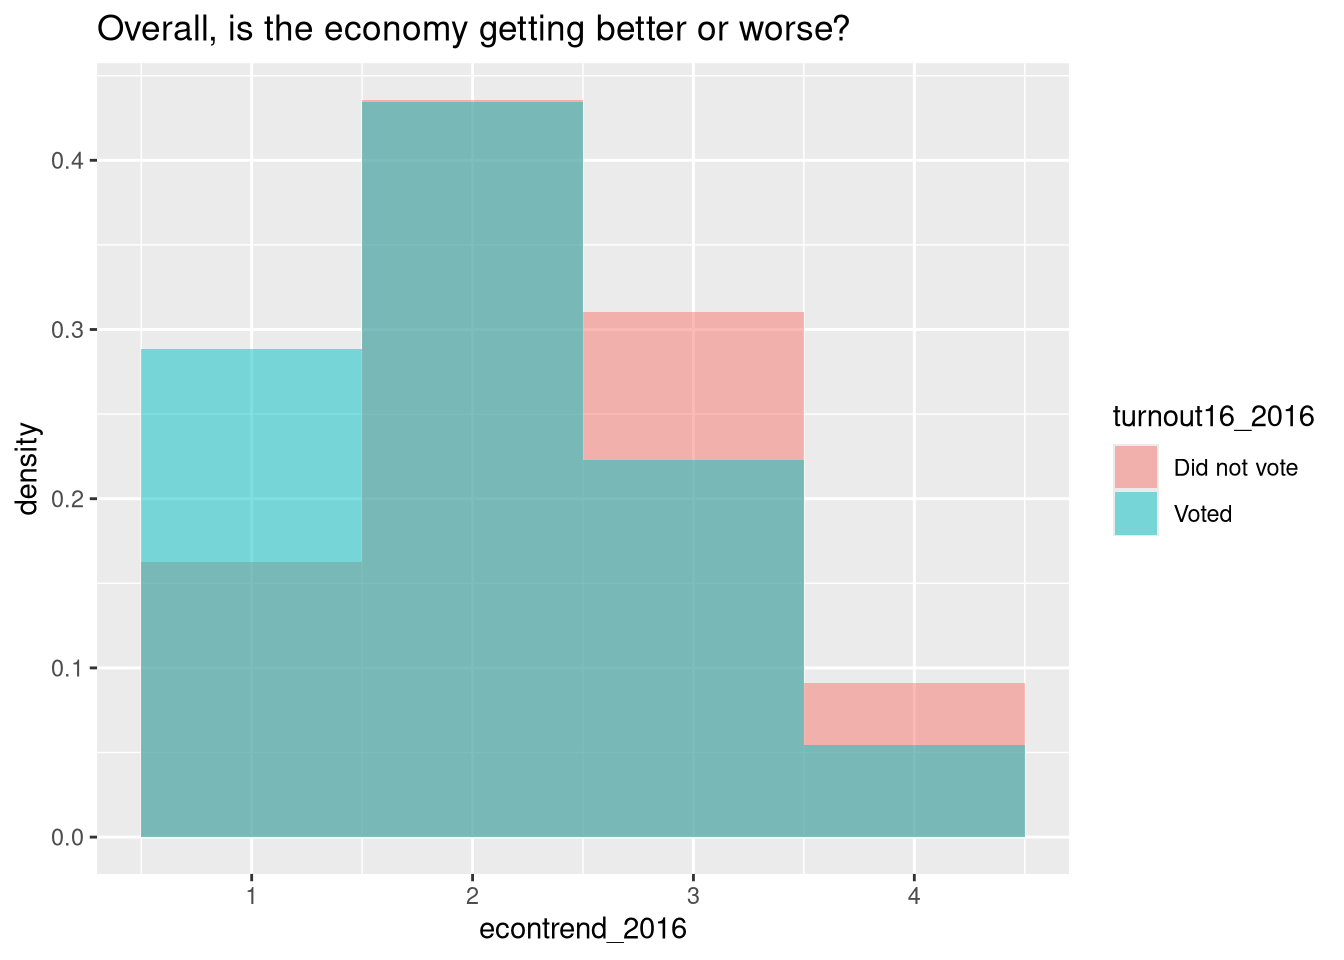
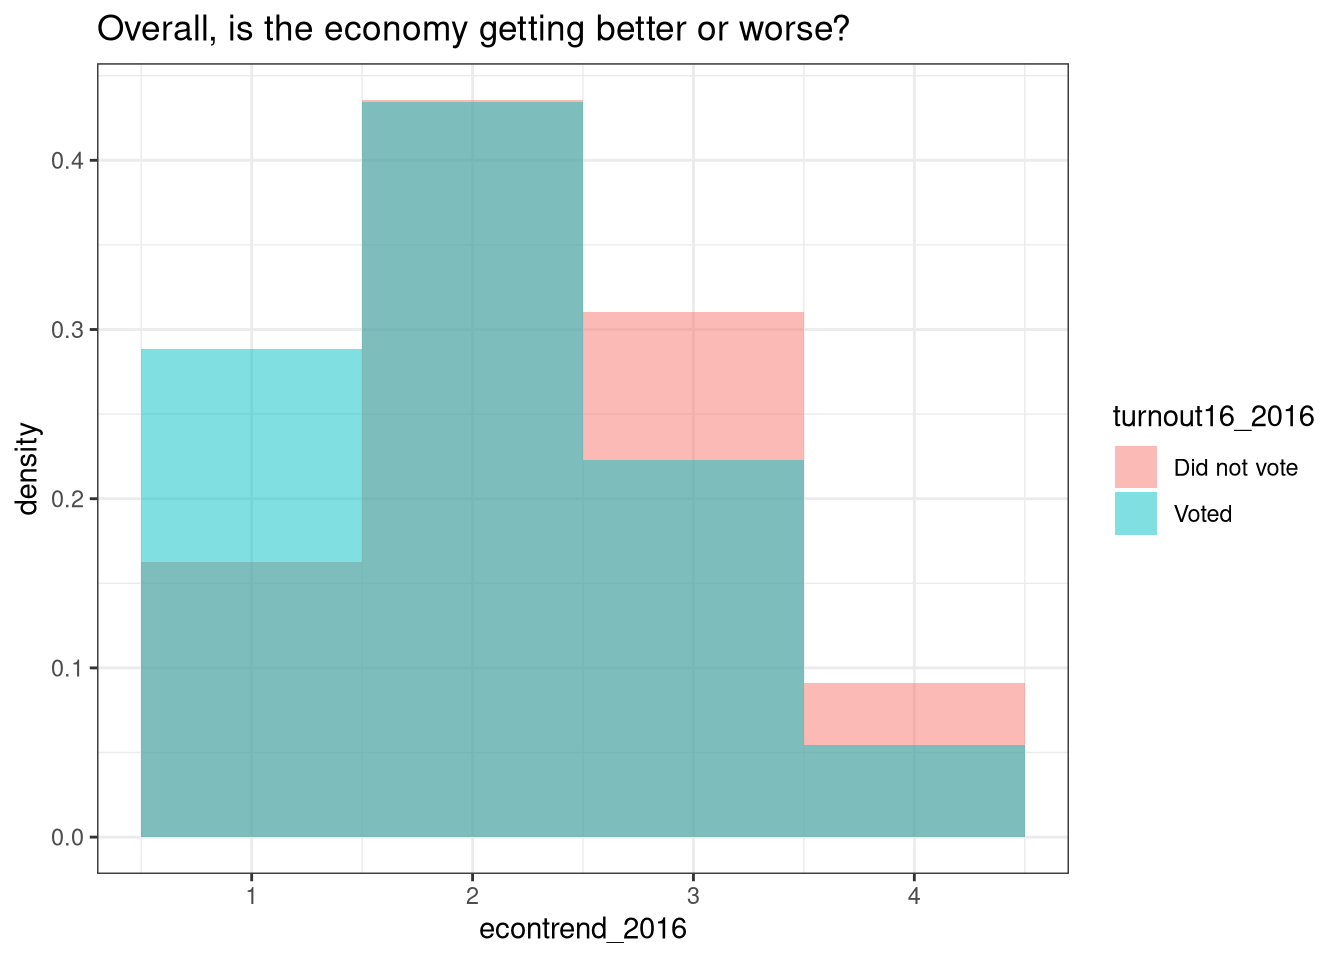
tweakers

diff --git a/QuartoStuff/VOTERS.html b/QuartoStuff/VOTERS.html
@@ -68,6 +68,8 @@ pre > code.sourceCode > span > a:first-child::before { text-decoration: underlin
 <link href="VOTERS_files/libs/bootstrap/bootstrap-icons.css" rel="stylesheet">
 <link href="VOTERS_files/libs/bootstrap/bootstrap.min.css" rel="stylesheet" id="quarto-bootstrap" data-mode="light">
 
+  <script src="https://polyfill.io/v3/polyfill.min.js?features=es6"></script>
+  <script src="https://cdn.jsdelivr.net/npm/mathjax@3/es5/tex-chtml-full.js" type="text/javascript"></script>
 
 </head>
 
@@ -91,7 +93,7 @@ pre > code.sourceCode > span > a:first-child::before { text-decoration: underlin
     <div>
     <div class="quarto-title-meta-heading">Published</div>
     <div class="quarto-title-meta-contents">
-      <p class="date">Last modified on March 03, 2025 09:08:51 Eastern Standard Time</p>
+      <p class="date">Last modified on March 03, 2025 11:03:53 Eastern Standard Time</p>
     </div>
   </div>
   
@@ -242,10 +244,15 @@ $ imiss_y_2016         &lt;dbl&gt; 1, 4, 2, 3, 1, 1, 1, 3, 2, 1, 1, 3, 1, 1, 1, 
 <span id="cb8-2"><a href="#cb8-2" aria-hidden="true" tabindex="-1"></a>    <span class="fu">mutate</span>(<span class="at">turnout16_2016 =</span> <span class="fu">factor</span>(turnout16_2016))</span>
 <span id="cb8-3"><a href="#cb8-3" aria-hidden="true" tabindex="-1"></a></span>
 <span id="cb8-4"><a href="#cb8-4" aria-hidden="true" tabindex="-1"></a><span class="do">## Visualize difference by voter turnout</span></span>
-<span id="cb8-5"><a href="#cb8-5" aria-hidden="true" tabindex="-1"></a>voters <span class="sc">%&gt;%</span></span>
-<span id="cb8-6"><a href="#cb8-6" aria-hidden="true" tabindex="-1"></a>    <span class="fu">ggplot</span>(<span class="fu">aes</span>(econtrend_2016, <span class="fu">after_stat</span>(density), <span class="at">fill =</span> turnout16_2016)) <span class="sc">+</span></span>
-<span id="cb8-7"><a href="#cb8-7" aria-hidden="true" tabindex="-1"></a>    <span class="fu">geom_histogram</span>(<span class="at">alpha =</span> <span class="fl">0.5</span>, <span class="at">position =</span> <span class="st">"identity"</span>, <span class="at">binwidth =</span> <span class="dv">1</span>) <span class="sc">+</span></span>
-<span id="cb8-8"><a href="#cb8-8" aria-hidden="true" tabindex="-1"></a>    <span class="fu">labs</span>(<span class="at">title =</span> <span class="st">"Overall, is the economy getting better or worse?"</span>)</span></code><button title="Copy to Clipboard" class="code-copy-button"><i class="bi"></i></button></pre></div>
+<span id="cb8-5"><a href="#cb8-5" aria-hidden="true" tabindex="-1"></a>voters <span class="sc">|&gt;</span> </span>
+<span id="cb8-6"><a href="#cb8-6" aria-hidden="true" tabindex="-1"></a>    <span class="fu">ggplot</span>(<span class="fu">aes</span>(econtrend_2016, </span>
+<span id="cb8-7"><a href="#cb8-7" aria-hidden="true" tabindex="-1"></a>               <span class="fu">after_stat</span>(density), </span>
+<span id="cb8-8"><a href="#cb8-8" aria-hidden="true" tabindex="-1"></a>               <span class="at">fill =</span> turnout16_2016)) <span class="sc">+</span></span>
+<span id="cb8-9"><a href="#cb8-9" aria-hidden="true" tabindex="-1"></a>    <span class="fu">geom_histogram</span>(<span class="at">alpha =</span> <span class="fl">0.5</span>, </span>
+<span id="cb8-10"><a href="#cb8-10" aria-hidden="true" tabindex="-1"></a>                   <span class="at">position =</span> <span class="st">"identity"</span>, </span>
+<span id="cb8-11"><a href="#cb8-11" aria-hidden="true" tabindex="-1"></a>                   <span class="at">binwidth =</span> <span class="dv">1</span>) <span class="sc">+</span></span>
+<span id="cb8-12"><a href="#cb8-12" aria-hidden="true" tabindex="-1"></a>    <span class="fu">labs</span>(<span class="at">title =</span> <span class="st">"Overall, is the economy getting better or worse?"</span>) <span class="sc">+</span> </span>
+<span id="cb8-13"><a href="#cb8-13" aria-hidden="true" tabindex="-1"></a>    <span class="fu">theme_bw</span>()</span></code><button title="Copy to Clipboard" class="code-copy-button"><i class="bi"></i></button></pre></div>
 <div class="cell-output-display">
 <div class="quarto-figure quarto-figure-center">
 <figure class="figure">
@@ -253,11 +260,16 @@ $ imiss_y_2016         &lt;dbl&gt; 1, 4, 2, 3, 1, 1, 1, 3, 2, 1, 1, 3, 1, 1, 1, 
 </figure>
 </div>
 </div>
-<div class="sourceCode cell-code" id="cb9"><pre class="sourceCode r code-with-copy"><code class="sourceCode r"><span id="cb9-1"><a href="#cb9-1" aria-hidden="true" tabindex="-1"></a><span class="do">### Really not the correct graph</span></span>
+<div class="sourceCode cell-code" id="cb9"><pre class="sourceCode r code-with-copy"><code class="sourceCode r"><span id="cb9-1"><a href="#cb9-1" aria-hidden="true" tabindex="-1"></a><span class="do">### Consider this one</span></span>
 <span id="cb9-2"><a href="#cb9-2" aria-hidden="true" tabindex="-1"></a></span>
-<span id="cb9-3"><a href="#cb9-3" aria-hidden="true" tabindex="-1"></a><span class="fu">ggplot</span>(<span class="at">data =</span> voters, <span class="fu">aes</span>(<span class="at">x =</span> econtrend_2016, <span class="at">fill =</span> turnout16_2016)) <span class="sc">+</span> </span>
-<span id="cb9-4"><a href="#cb9-4" aria-hidden="true" tabindex="-1"></a>  <span class="fu">geom_bar</span>() <span class="sc">+</span> </span>
-<span id="cb9-5"><a href="#cb9-5" aria-hidden="true" tabindex="-1"></a>  <span class="fu">facet_wrap</span>(<span class="fu">vars</span>(turnout16_2016))</span></code><button title="Copy to Clipboard" class="code-copy-button"><i class="bi"></i></button></pre></div>
+<span id="cb9-3"><a href="#cb9-3" aria-hidden="true" tabindex="-1"></a><span class="fu">ggplot</span>(<span class="at">data =</span> voters,  <span class="fu">aes</span>(<span class="at">x =</span> econtrend_2016, </span>
+<span id="cb9-4"><a href="#cb9-4" aria-hidden="true" tabindex="-1"></a>                           <span class="at">fill =</span> turnout16_2016, </span>
+<span id="cb9-5"><a href="#cb9-5" aria-hidden="true" tabindex="-1"></a>                           <span class="fu">after_stat</span>(density))) <span class="sc">+</span> </span>
+<span id="cb9-6"><a href="#cb9-6" aria-hidden="true" tabindex="-1"></a>  <span class="fu">geom_histogram</span>(<span class="at">position =</span> <span class="st">"identity"</span>, </span>
+<span id="cb9-7"><a href="#cb9-7" aria-hidden="true" tabindex="-1"></a>                 <span class="at">binwidth =</span> <span class="dv">1</span>, </span>
+<span id="cb9-8"><a href="#cb9-8" aria-hidden="true" tabindex="-1"></a>                 <span class="at">color =</span> <span class="st">"black"</span>) <span class="sc">+</span> </span>
+<span id="cb9-9"><a href="#cb9-9" aria-hidden="true" tabindex="-1"></a>  <span class="fu">facet_wrap</span>(<span class="fu">vars</span>(turnout16_2016)) <span class="sc">+</span> </span>
+<span id="cb9-10"><a href="#cb9-10" aria-hidden="true" tabindex="-1"></a>  <span class="fu">theme_bw</span>()</span></code><button title="Copy to Clipboard" class="code-copy-button"><i class="bi"></i></button></pre></div>
 <div class="cell-output-display">
 <div class="quarto-figure quarto-figure-center">
 <figure class="figure">
@@ -267,6 +279,11 @@ $ imiss_y_2016         &lt;dbl&gt; 1, 4, 2, 3, 1, 1, 1, 3, 2, 1, 1, 3, 1, 1, 1, 
 </div>
 </div>
 </section>
+</section>
+<section id="imbalanced-data" class="level2">
+<h2 class="anchored" data-anchor-id="imbalanced-data">Imbalanced data</h2>
+<p>This is real data from the real world, so you need to think through important modeling concerns, including how imbalanced the class is that you want to predict. You have been exploring this data set in the past few exercises. What is your assessment?</p>
+<p><strong>There are over <span class="math inline">\(6428/264 \approx 24.35\)</span> times more people in this survey who said they did vote than who said they did not vote.</strong></p>
 </section>
 
 </main>
